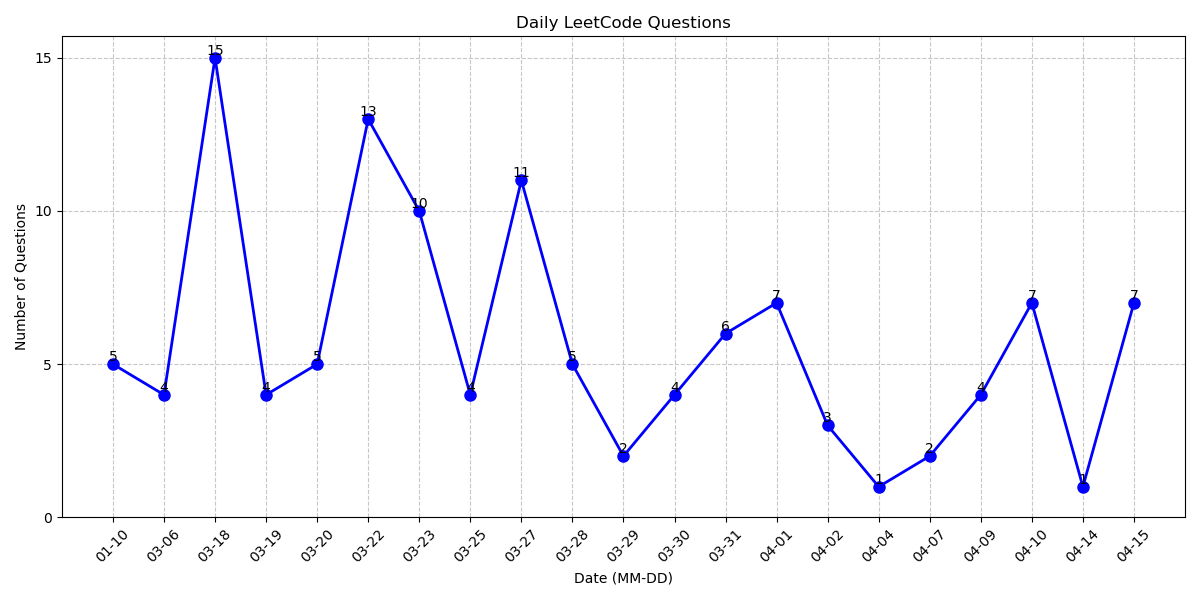
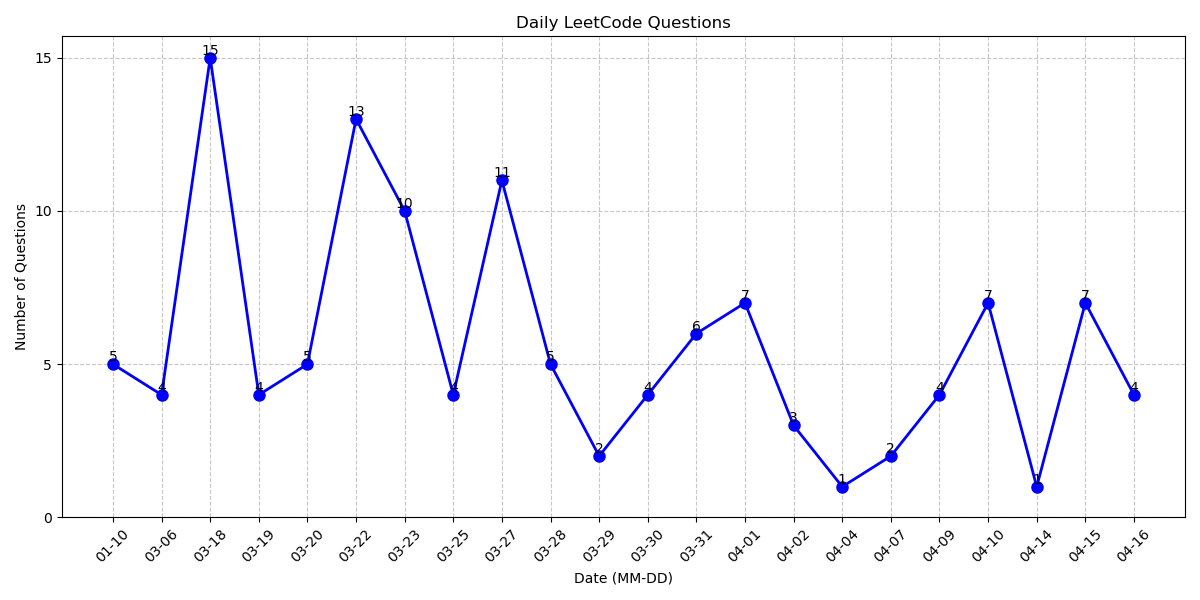
4/16 pratices

Changed region(s): [[0.1233, 0.06, 0.9558, 0.84], [0.1233, 0.87, 0.925, 0.93]]

diff --git a/Graph/CourseSchedule.cpp b/Graph/CourseSchedule.cpp
@@ -1,0 +1,90 @@
+
+// hint
+/*
+    每個couse都去走一遍DFS, 檢查看看會不會出現重複element(hashset), 如果有return
+   false;
+
+    必須增加visit避免重複訪問
+*/
+class Solution {
+  public:
+	unordered_map<int, vector<int>> neis_map;
+	bool canFinish(int numCourses, vector<vector<int>> &prerequisites) {
+
+		// create graph
+		for (int i = 0; i < prerequisites.size(); ++i) {
+			int node_id = prerequisites[i][0];
+			int nei = prerequisites[i][1];
+			neis_map[node_id].push_back(nei);
+		}
+		// dfs all nodes;
+		bool can_schedule = true;
+		vector<bool> visit(numCourses, false);
+		for (auto &nodes : neis_map) {
+			int node = nodes.first;
+			vector<int> neis = nodes.second;
+			unordered_set<int> topology; // check cycle in graph
+			can_schedule = can_schedule && dfs(node, neis, topology, visit);
+		}
+		return can_schedule;
+	}
+	bool dfs(int node, vector<int> &neis, unordered_set<int> &topology,
+	         vector<bool> &visit) {
+		if (visit[node])
+			return true;
+		// graph contain cycle
+		if (topology.find(node) != topology.end()) {
+			return false;
+		}
+
+		topology.insert(node);
+		for (int i = 0; i < neis.size(); ++i) {
+			int next_node = neis[i];
+			if (!dfs(next_node, neis_map[next_node], topology, visit))
+				return false;
+		}
+		visit[node] = true;
+		return true;
+	}
+};
+
+/*
+    BFS 拓撲排序（Kahn's Algorithm）
+    先去計算每個node的in_degree, 然後從0-indegree的node開始刪除
+    並且刪除跟這個node有關的in_degree, 再將in-degree變0的node加入queue重複做
+    如果最後能夠刪除所有node,代表graph沒有cycle
+*/
+class Solution {
+  public:
+	bool canFinish(int numCourses, vector<vector<int>> &prerequisites) {
+		vector<vector<int>> graph(numCourses);
+		vector<int> in_degree(numCourses, 0);
+		queue<int> deleted_nodes;
+		for (auto &pre : prerequisites) {
+			int course = pre[0];
+			int prereq = pre[1];
+			graph[prereq].push_back(course);
+			in_degree[course]++;
+		}
+
+		for (int i = 0; i < in_degree.size(); ++i) {
+			if (in_degree[i] == 0)
+				deleted_nodes.push(i);
+		}
+
+		int deleted_num = 0;
+		while (!deleted_nodes.empty()) {
+			++deleted_num;
+			int node = deleted_nodes.front();
+
+			// decrease node in_degree that include this node
+			for (int i = 0; i < graph[node].size(); ++i) {
+				int nei_node = graph[node][i];
+				if (--in_degree[nei_node] == 0)
+					deleted_nodes.push(nei_node);
+			}
+			deleted_nodes.pop();
+		}
+		return deleted_num == numCourses;
+	}
+};

diff --git a/TwoPointer/3sum.cpp b/TwoPointer/3sum.cpp
@@ -1,0 +1,47 @@
+// hint
+/*
+    1. 暴力法 O(n^3)
+    2. two pointer + fixed number O(n^2)
+*/
+class Solution {
+  public:
+	vector<vector<int>> threeSum(vector<int> &nums) {
+		vector<vector<int>> res;
+		sort(nums.begin(), nums.end());
+
+		for (int i = 0; i < nums.size(); ++i) {
+
+			// i-1 == i 必須跳過, 因為i-1 並定search過
+			if (i > 0 && nums[i] == nums[i - 1])
+				continue;
+			int l = i + 1;
+			int r = nums.size() - 1;
+			int target = -(nums[i]);
+			while (l < r) {
+
+				if (nums[l] + nums[r] < target) {
+					++l;
+				} else if (nums[l] + nums[r] > target) {
+					--r;
+				}
+
+				else {
+					int l_num = nums[l];
+					int r_num = nums[r];
+					vector<int> ans = {nums[l], nums[i], nums[r]};
+					res.push_back(ans);
+					--r;
+					++l;
+
+					// skip duplicate, 因為l, r
+					// 不管哪個遇到相同的必定會有duplicate
+					while (l < r && nums[l] == l_num)
+						++l;
+					while (l < r && nums[r] == r_num)
+						--r;
+				}
+			}
+		}
+		return res;
+	}
+};

diff --git a/Tree/230.KthSmallestElementBST.cpp b/Tree/230.KthSmallestElementBST.cpp
@@ -1,0 +1,40 @@
+// hint
+/**
+ * Definition for a binary tree node.
+ * struct TreeNode {
+ *     int val;
+ *     TreeNode *left;
+ *     TreeNode *right;
+ *     TreeNode() : val(0), left(nullptr), right(nullptr) {}
+ *     TreeNode(int x) : val(x), left(nullptr), right(nullptr) {}
+ *     TreeNode(int x, TreeNode *left, TreeNode *right) : val(x), left(left),
+ * right(right) {}
+ * };
+ */
+/*
+    1. 直接traverse BST, 全部丟進min_heap, 然後去kth smallest, time complexity
+   O(n), space O(n)
+    2. 利用BST特性DFS先找最小值, 然後每次return 都去增加count次數, 當count == k
+   的時候就是kth samllest time complexity O(logn)
+*/
+class Solution {
+  public:
+	int count = 0;
+	int kth_num;
+	int kthSmallest(TreeNode *root, int k) {
+		dfs(root, k);
+		return kth_num;
+	}
+	void dfs(TreeNode *node, int k) {
+		if (node == nullptr)
+			return;
+
+		dfs(node->left, k);
+		++count;
+		if (count == k) {
+			kth_num = node->val;
+			return;
+		}
+		dfs(node->right, k);
+	}
+};

diff --git a/Math&Geo/168.ExcelSheetColumnTitle.cpp b/Math&Geo/168.ExcelSheetColumnTitle.cpp
@@ -1,0 +1,18 @@
+// hint
+class Solution {
+  public:
+	string convertToTitle(int columnNumber) {
+		string res = "";
+
+		while (columnNumber > 0) {
+			--columnNumber; // 26進位陷阱, 因為excel表A->1 是從1開始,
+			                // 所以每次取於數都要先-1才可以
+			int remainder = columnNumber % 26;
+			char cur_excel_char = 'A' + remainder;
+			res = cur_excel_char + res;
+
+			columnNumber /= 26;
+		}
+		return res;
+	}
+};

diff --git a/README.md b/README.md
@@ -1,10 +1,11 @@
 # LeetCode Problems
 
 ❌  can't resolve without solution: 3
-📝  can't resolve without hint: 104
+📝  can't resolve without hint: 108
 ✅  resolve by self: 9
 ## Tree
 - 📝 PrefixTree
+- 📝 230.KthSmallestElementBST
 - 📝 balance
 - 📝 maxDiameter
 - 📝 invertBT
@@ -24,11 +25,13 @@
 - 📝 matrixZero
 - 📝 multiStr
 - 📝 plusOne
+- 📝 168.ExcelSheetColumnTitle
 
 ## TwoPointer
 - 📝 validParlindrome2
 - 📝 mergeSortArray
 - 📝 waterContainer
+- 📝 3sum
 - 📝 twoSum2
 - 📝 validParlindrome
 - ✅ reverseStr
@@ -54,6 +57,7 @@
 - ❌ islandTreasure
 - 📝 cloneGraph
 - 📝 SurroundedRegions
+- 📝 CourseSchedule
 - 📝 PacificAtlanticWaterFlow
 - 📝 isoLand
 - 📝 maxLand
@@ -156,7 +160,7 @@
 - ✅ uniquePath
 
 ## Statistics
-Current total questions: 116
+Current total questions: 120
 
 <img src="chart.png" alt="questions bar chart" width="500">
 
